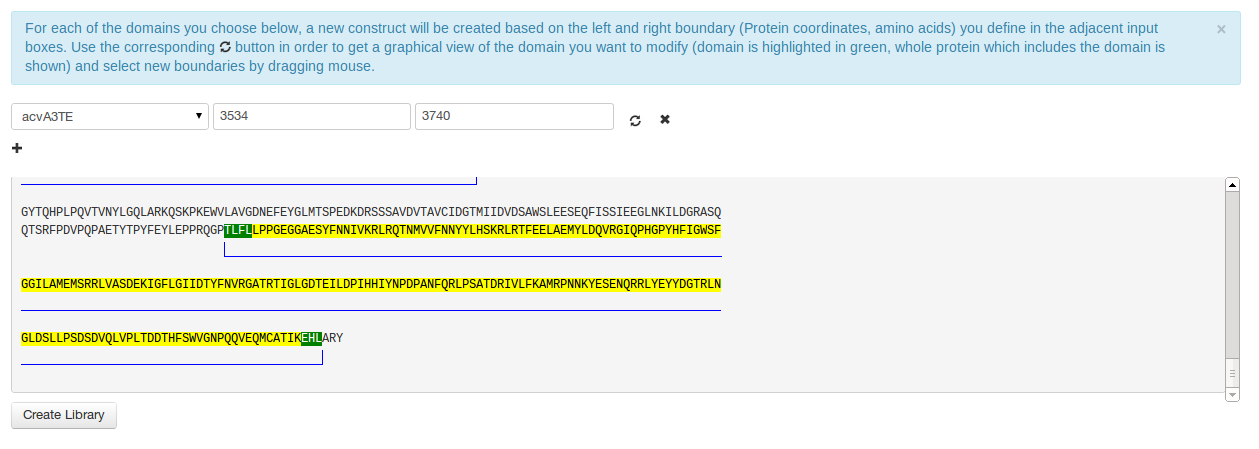
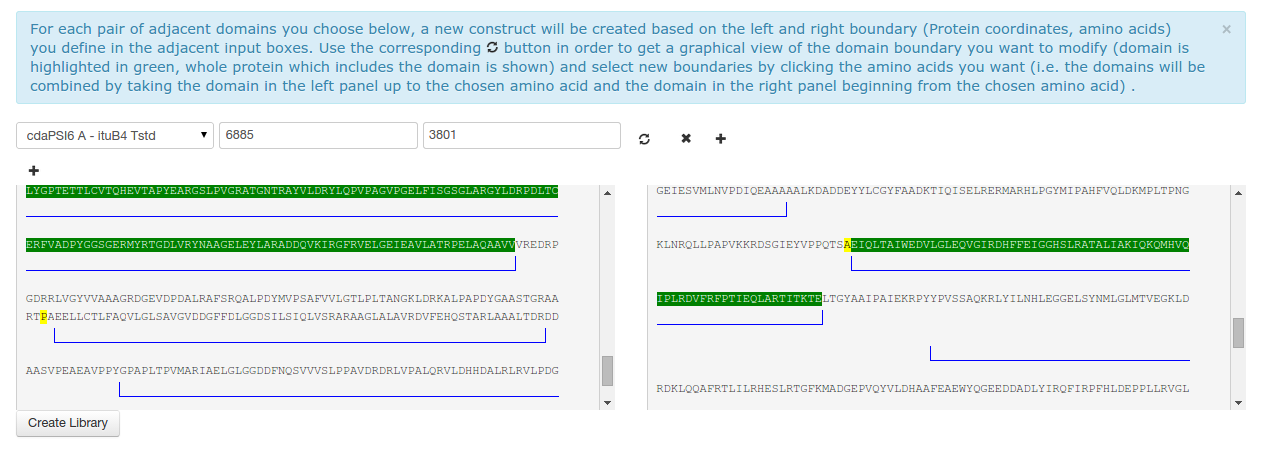
update documentation to reflect new boundary library interface

diff --git a/Django/DjangoNrps/templates/documentation/documentation.html b/Django/DjangoNrps/templates/documentation/documentation.html
@@ -154,7 +154,7 @@
 
                 <h3> About Gibthon </h3>
                  <center>
-                 <img src={% static "images/documentation/gibthon2.0beta.png" %} /> 
+                 <img src={% static "images/documentation/gibthon2.0beta.png" %} />
                  </center>
                  <p style="margin-top:20px"> <a href="http://django.gibthon.org/"> Gibthon </a> was started as the software project of the Cambridge iGEM teams of 2010 and 2011 and comprises an open source tool which aids "in the design and manufacture of synthetic parts and devices for biological systems." The manufacture of the synthetic parts is accomplished by means of Gibson assembly, a technique for one-pot isothermal and scarless assembly of DNA fragments. Gibthon was chosen because of its user-friendly interface, which rapidly allows the scientist to use his expertise and modify the Gibson assembly primer suggestions by having direct access to the sequences. After each sequence modification, important primer properties (e.g. regarding self-priming) are re-calculated using UNAfold. In the next sections, the adapted version of Gibthon and its integration in NRPSDesigner will be explained. </p>
 
@@ -254,10 +254,12 @@
             <h2> Boundary libraries </h2>
             </div>
 
-            <p> Similarly to the monomer library functionality, a boundary library functionality exists, in which the user can modify the boundaries of the domains included in the original construct. For each domain, the protein sequence of the whole synthetase which natively codes for it, can be shown. This makes it easy to choose different boundaries for a particular domain, as exemplified in the screenshot of this functionality below: </p>
+            <p> Similarly to the monomer library functionality, a boundary library functionality exists, in which the user can modify the boundaries of the domains included in the original construct. For each pair of adjacent domains, the protein sequence of the corresponding synthetases which natively code for then, can be shown. This makes it easy to choose different boundaries for a particular domain combination, as exemplified in the screenshot of this functionality below: </p>
 
            <img src={% static "images/documentation/boundaryLibrary.png" %} /></br>
+<p> In this example, the user wants to modify the boundary/linker between an Adenylation and a Thiolation domain. In the left panel, the adenylation domain is highlighted in green. All other domains in this synthetase have a blue tooltip below them, such as the thiolation domain which follows the adenylation domain. Likewise, in the right panel, the thiolation domain is highlighted in green.  The yellow amino acids correspond to the amino acids the user has chosen for the corresponding boundaries. In this case, the two domains will be linked at the highlighted P and A residues (i.e. the designed NRPS will include the sequence AARTP-AEIQLTA). </p>
 
+<p> This functionality enables experts to easily apply their knowledge regarding functional NRPS domain boundaries while designing their constructs and can also serve as a platform for elucidating this relationship.</p>
 
             <div class="page-header">
             <h2> Extending the database </h2>
@@ -288,7 +290,7 @@
             <h2> Submit experimental data </h2>
             </div>
 
-<p> In this panel (see screenshot below) you can report the result of a successful NRPS assembly. If a construct has worked experimentally the domain borders of the respective database entries can be updated accordingly. First, you have to select two neighboring domains from your construct. Different filtering options help you to find the correct domains quickly in the database. Subsequently the corresponding coding sequence will be displayed. In green you can find the current domain length and borders. If your experimentally tested domain borders differ you can enter your result into the respective input fields e.g. by clicking on the corresponding base pair in the sequence shown. Finally, you can specify if your domain can be found also in external databases, as well as references validating this particular domain combination. </p> 
+<p> In this panel (see screenshot below) you can report the result of a successful NRPS assembly. If a construct has worked experimentally the domain borders of the respective database entries can be updated accordingly. First, you have to select two neighboring domains from your construct. Different filtering options help you to find the correct domains quickly in the database. Subsequently the corresponding coding sequence will be displayed. In green you can find the current domain length and borders. If your experimentally tested domain borders differ you can enter your result into the respective input fields e.g. by clicking on the corresponding base pair in the sequence shown. Finally, you can specify if your domain can be found also in external databases, as well as references validating this particular domain combination. </p>
              <img src={% static "images/documentation/expData.png" %} /></br>
 
 

diff --git a/Django/DjangoNrps/templates/designerGui/createBoundaryLibrary.html b/Django/DjangoNrps/templates/designerGui/createBoundaryLibrary.html
@@ -24,7 +24,7 @@
 
 <div class="alert alert-info">
 <button type="button" class="close" data-dismiss="alert">&times;</button>
-For each of the domains you choose below, a new construct will be created based on the left and right boundary (Protein coordinates, amino acids) you define in the adjacent input boxes. Use the corresponding <i class="icon-refresh"></i>  button in order to get a graphical view of the domain you want to modify (domain is highlighted in green, whole protein which includes the domain is shown) and select new boundaries by dragging mouse.</div>
+For each pair of adjacent domains you choose below, a new construct will be created based on the left and right boundary (Protein coordinates, amino acids) you define in the adjacent input boxes. Use the corresponding <i class="icon-refresh"></i>  button in order to get a graphical view of the domain boundary you want to modify (domain is highlighted in green, whole protein which includes the domain is shown) and select new boundaries by clicking the amino acids you want (i.e. the domains will be combined by taking the domain in the left panel up to the chosen amino acid and the domain in the right panel beginning from the chosen amino acid) .</div>
 
 <div class="row-fluid" id="createBoundaryLibraryContainer">
 {{ formset.management_form }}
